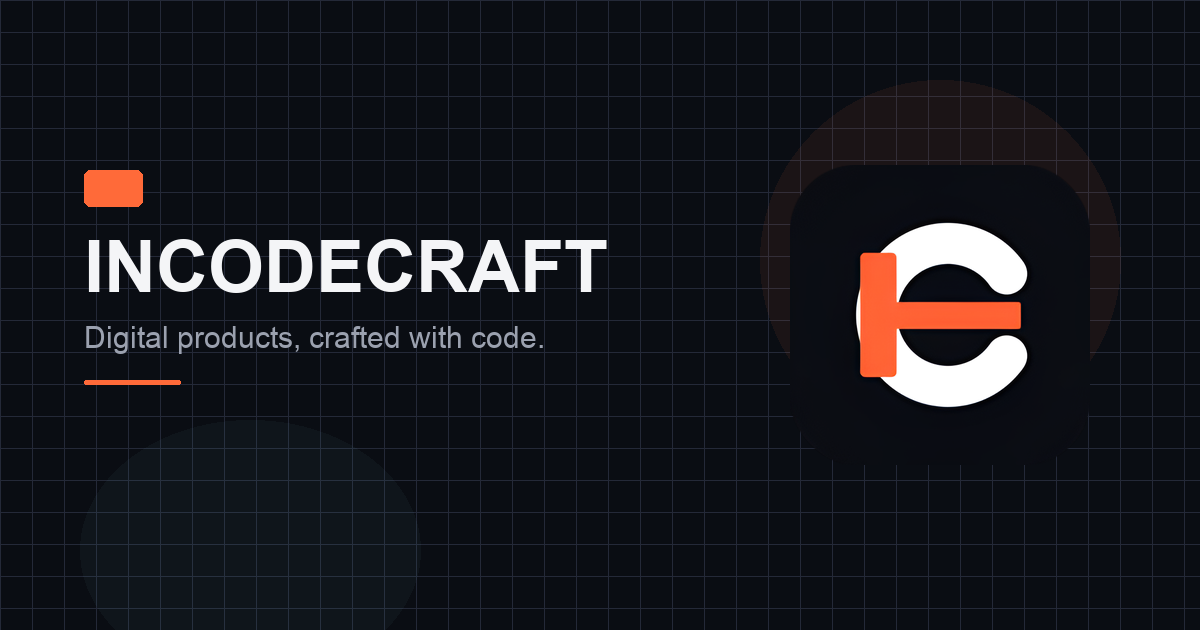
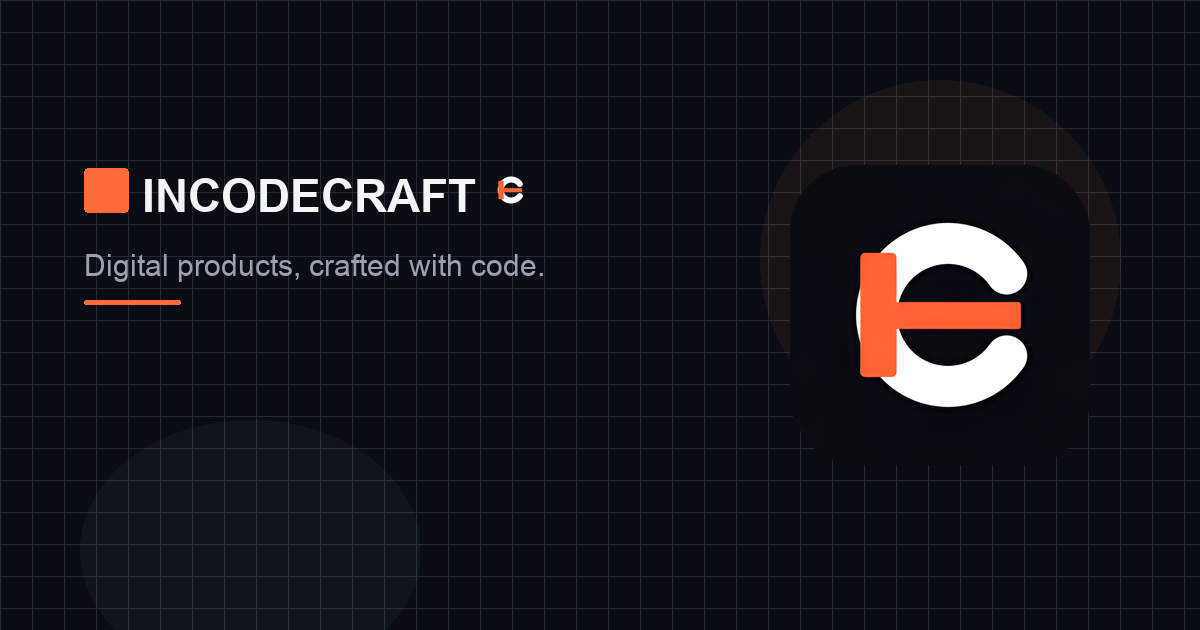
Refresh OG image with navbar-style brand lockup in the header.
Show the </> badge, INCODECRAFT wordmark, and mark icon on the left to match the site logo treatment.

Changed region(s): [[0.0617, 0.2714, 0.5242, 0.4825], [0.0617, 0.5127, 0.4625, 0.573], [0.0617, 0.6032, 0.1542, 0.6333]]

diff --git a/src/lib/og-image.ts b/src/lib/og-image.ts
@@ -1,5 +1,5 @@
 /** Bump when replacing public/og-image.png to bust Meta/WhatsApp link preview cache. */
-export const OG_IMAGE_VERSION = "2";
+export const OG_IMAGE_VERSION = "3";
 
 export function getOgImageUrl(siteUrl: string): string {
   return `${siteUrl}/og-image.png?v=${OG_IMAGE_VERSION}`;
